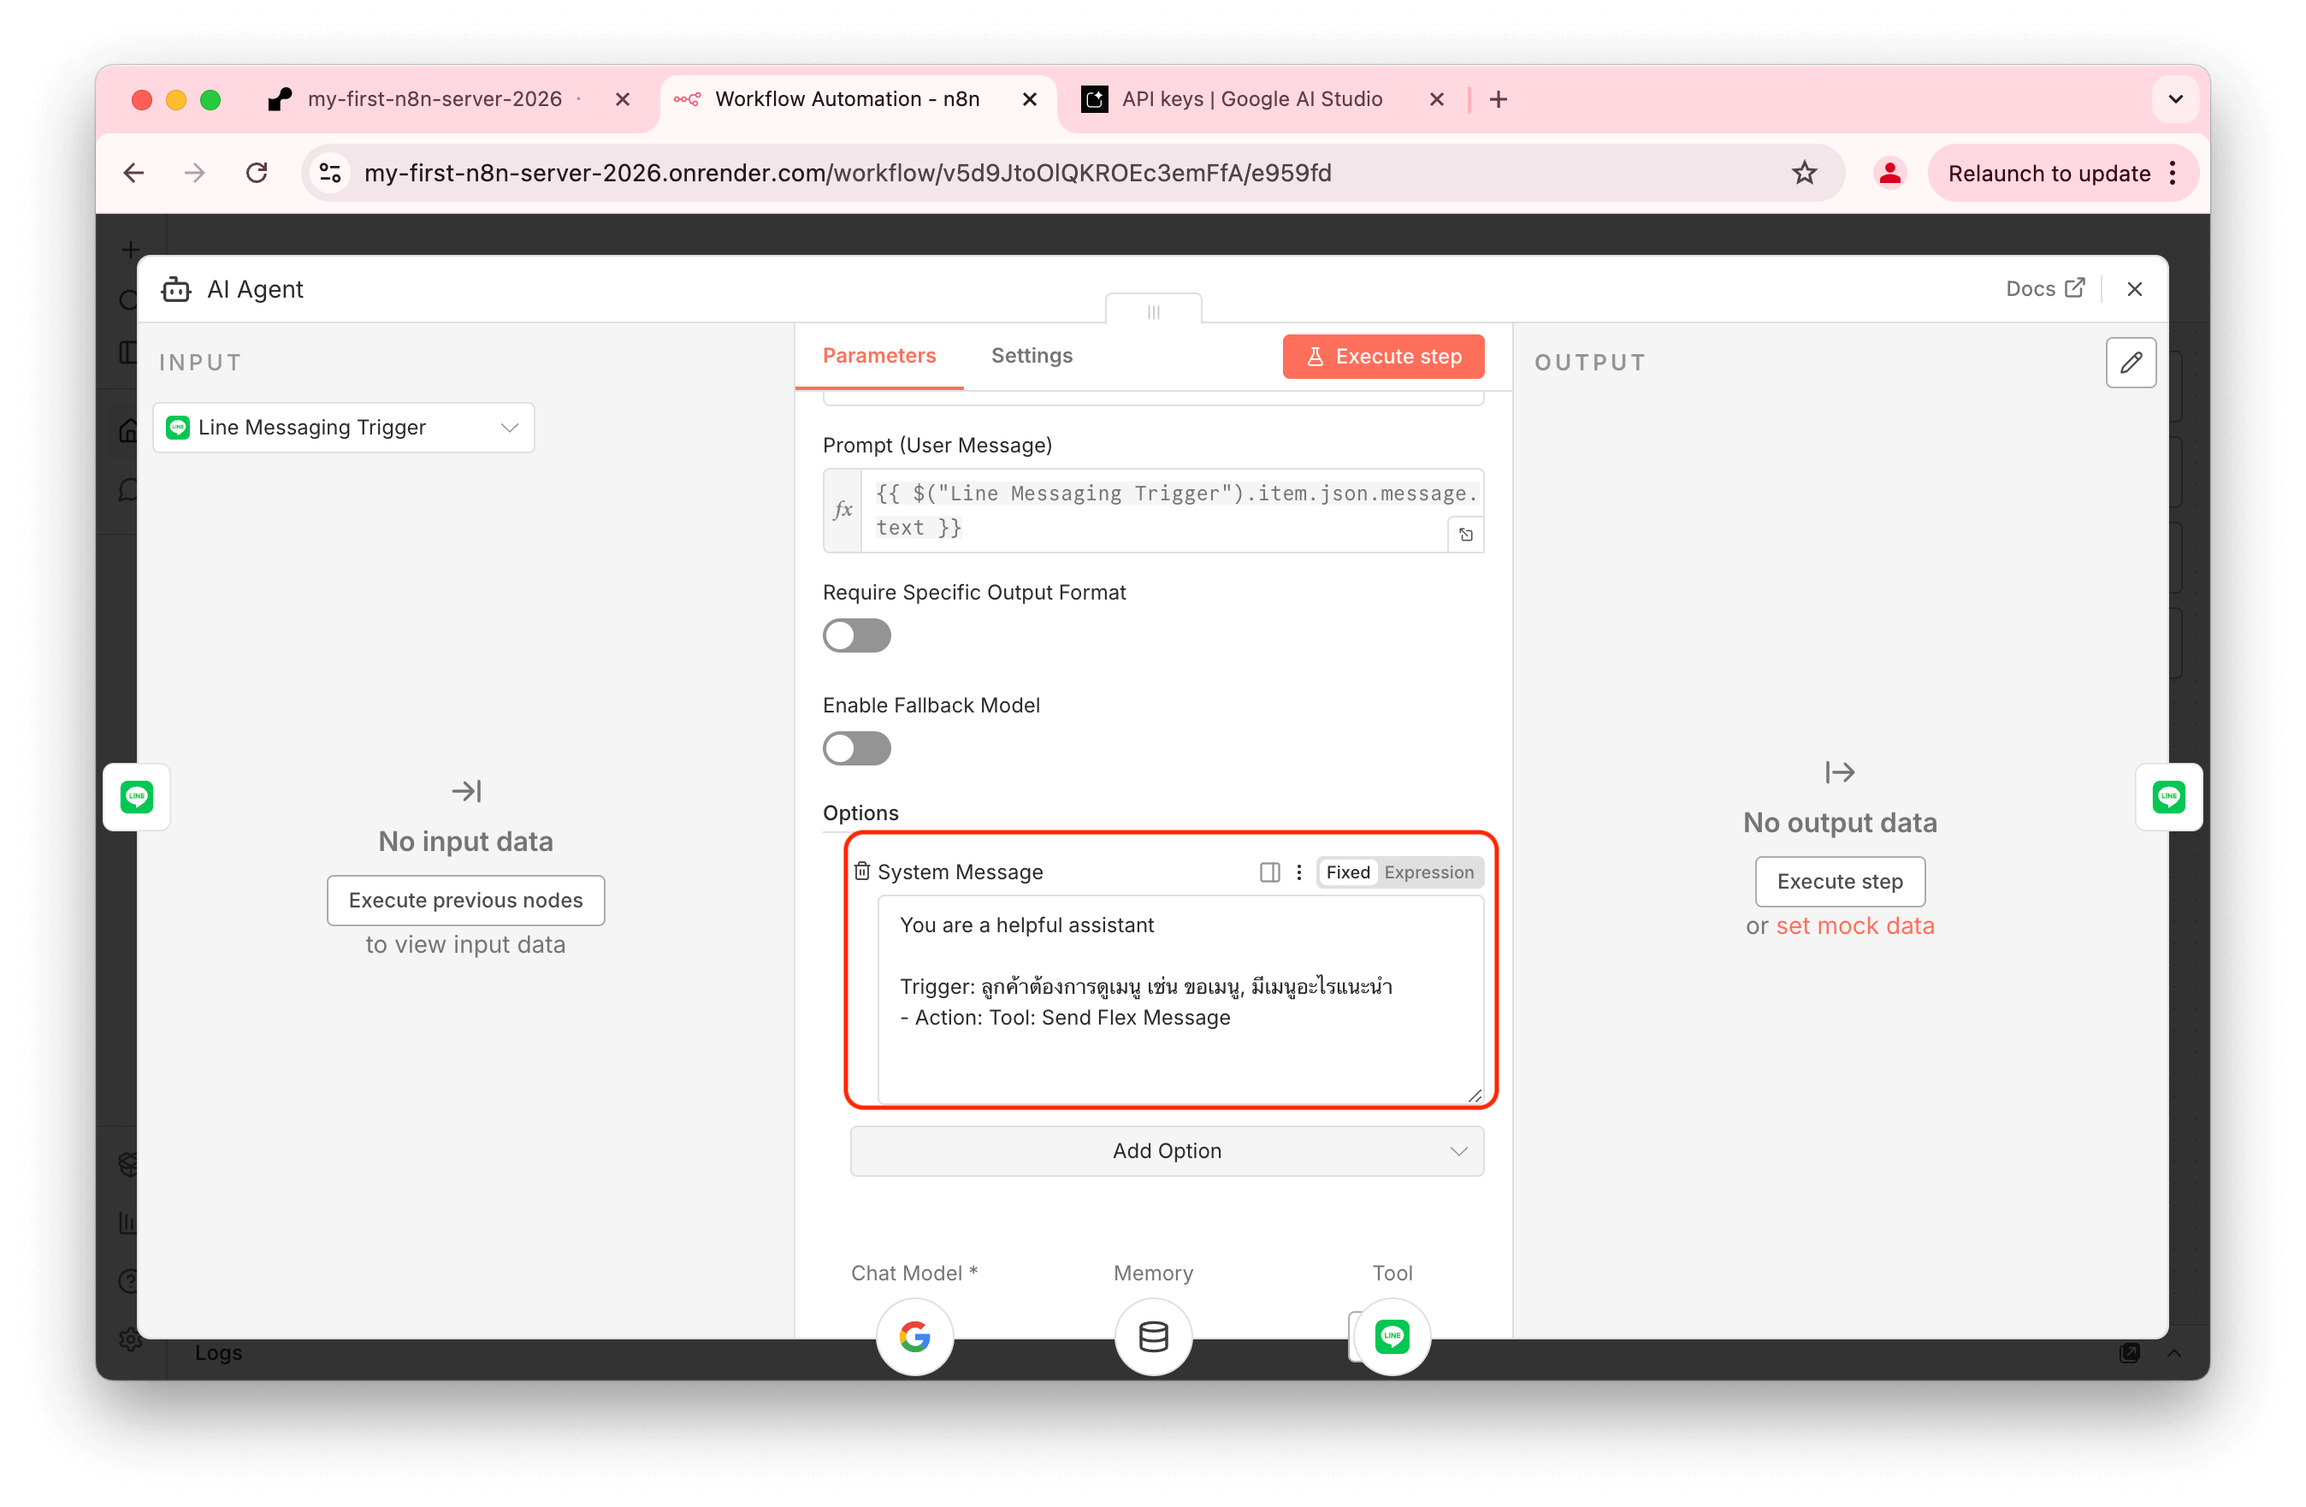
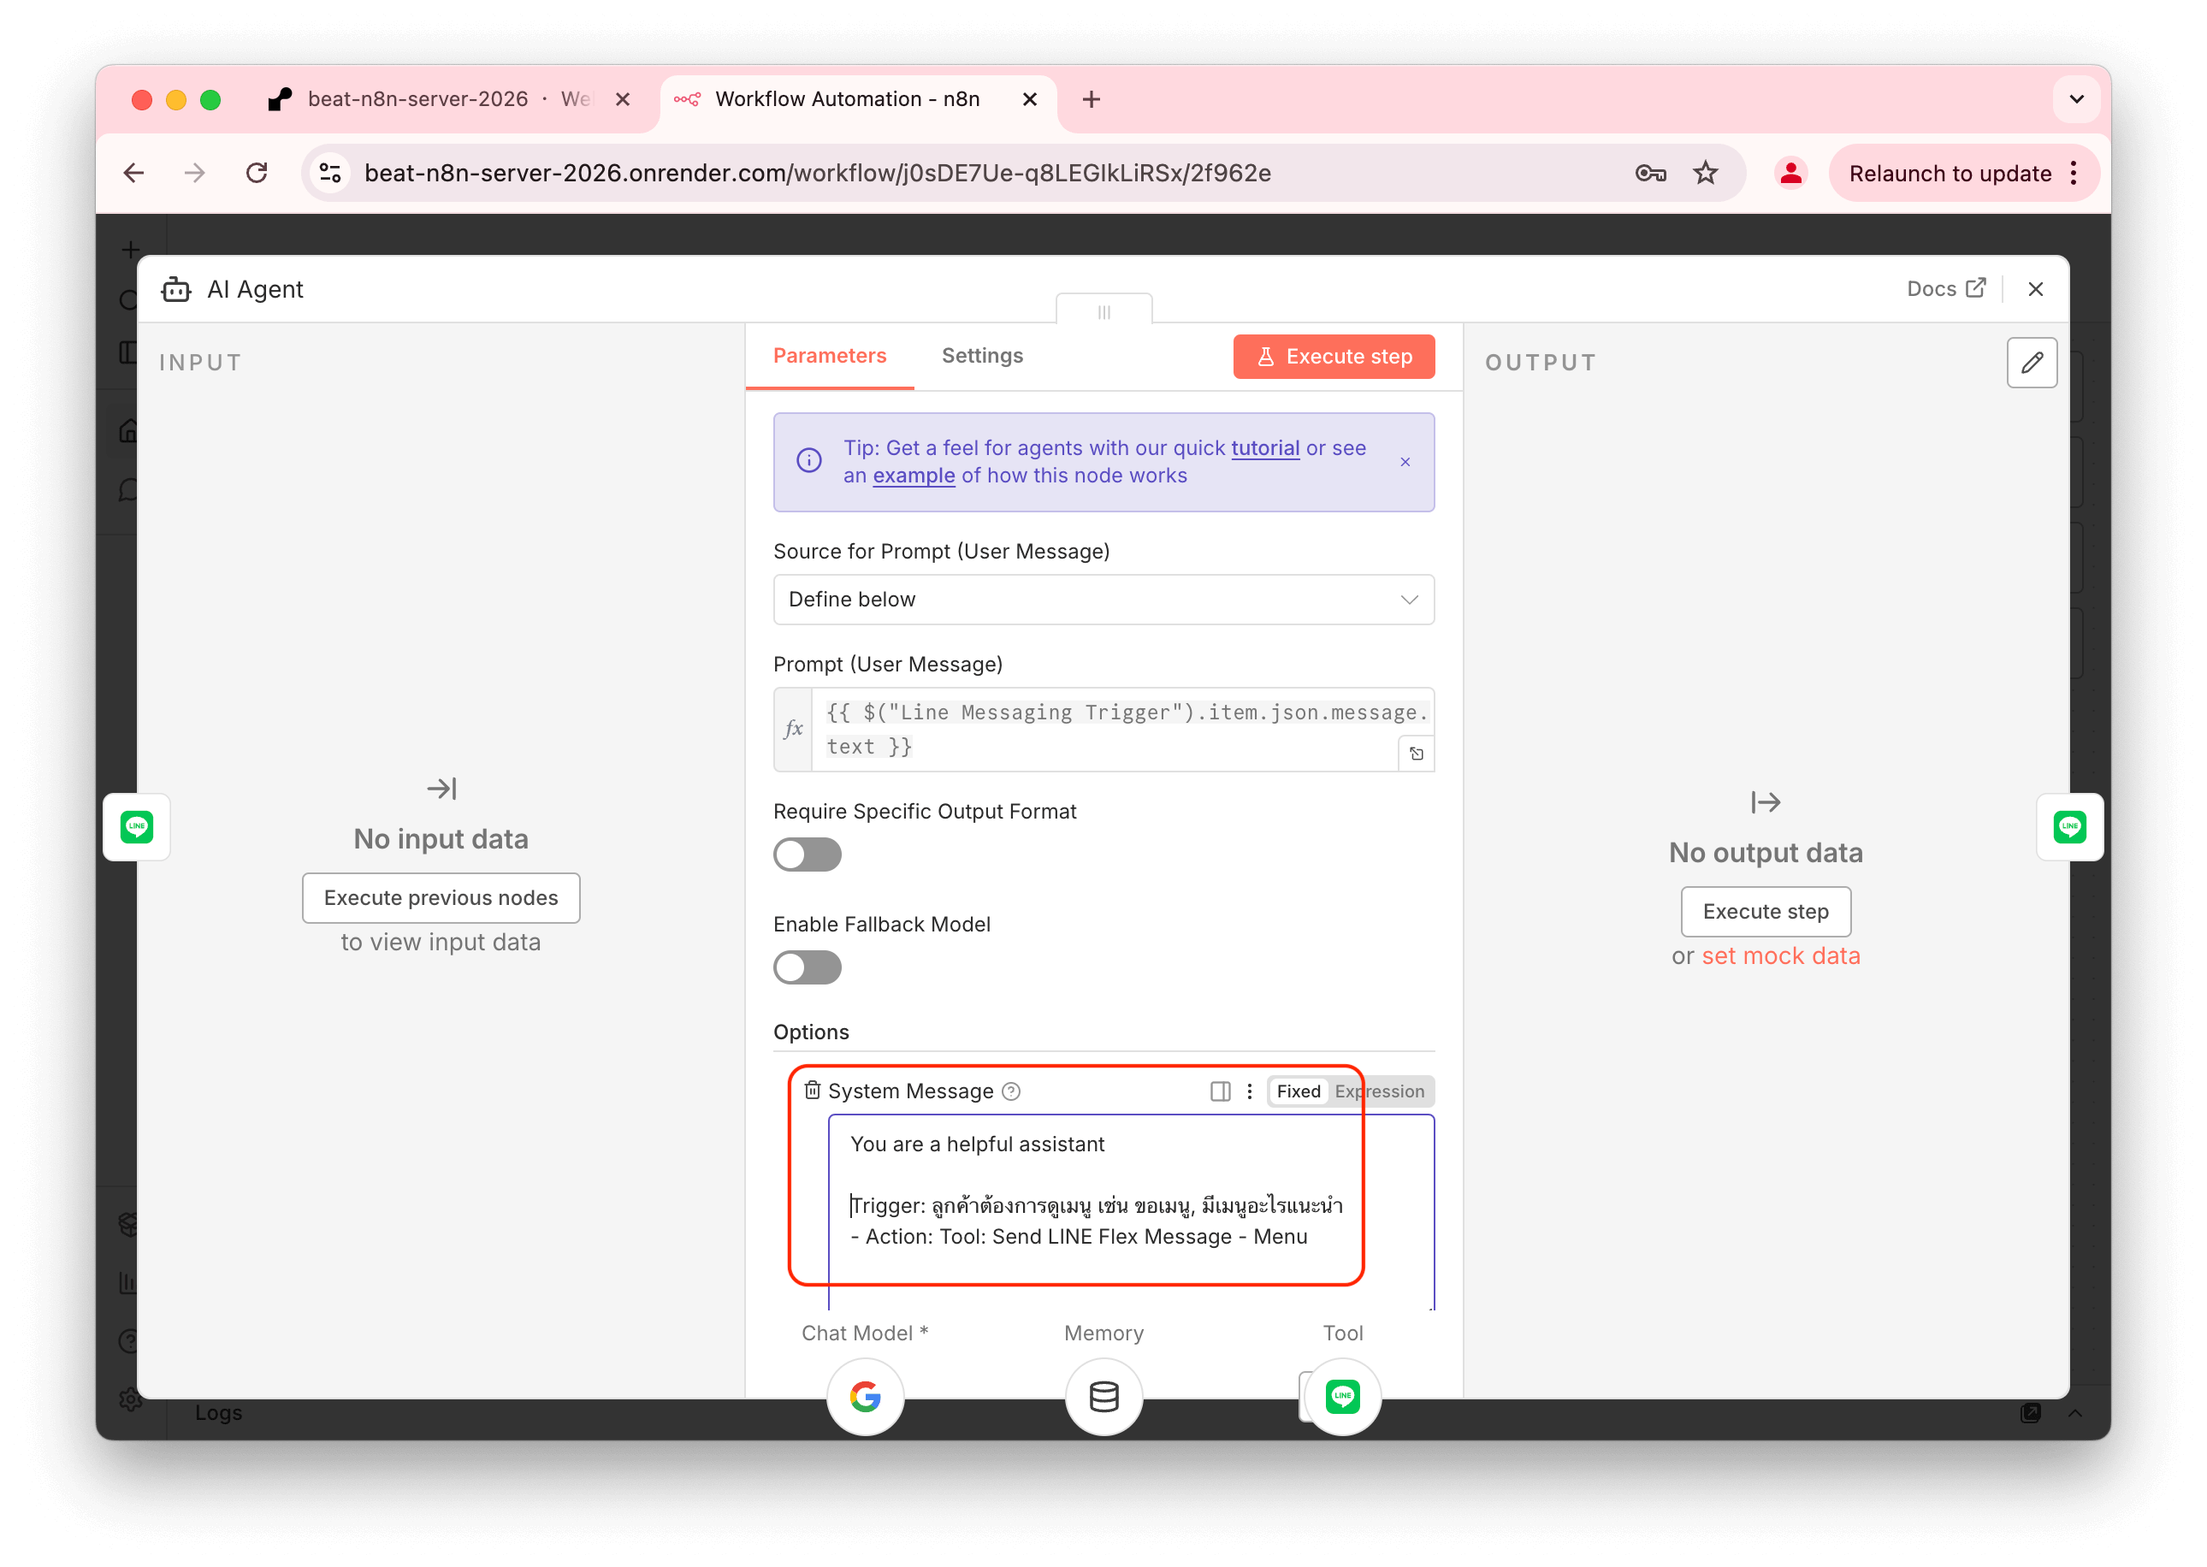
update

diff --git a/n8n-line-ai-agent/n8n-line-ai-agent.md b/n8n-line-ai-agent/n8n-line-ai-agent.md
@@ -258,7 +258,7 @@ Duration: 0:20:00
 1. เข้าสู่ระบบ Render Dashboard
 2. สร้าง Web Service บน Render
 3. ตั้งชื่อ Service และเลือก Plan
-4. ตั้งค่า Environment Variables และ Deploy
+4. ตั้งค่า Environment และ Deploy
 5. เริ่มต้นใช้งาน n8n บน Render
 
 ---
@@ -299,16 +299,16 @@ Duration: 0:20:00
 ![Render Dashboard - New Web Service](images/5.6.png)
 ![Render Dashboard - New Web Service](images/5.7.png)
 
-### 4. ตั้งค่า Environment Variables และ Deploy 
+### 4. ตั้งค่า Environment และ Deploy 
 
-* คลิกเลือกเมนู **"Environment"** เพื่อทำการตั้งค่าตัวแปรสำคัญในการใช้งาน Webhook และคลิก **"Add Environment Variable"**
-* เพิ่ม Environment Variables ตามตารางด้านล่าง:
+* คลิกเลือกเมนู **"Environment"** เพื่อทำการตั้งค่าตัวแปรสำคัญในการใช้งาน Webhook 
+   * และคลิก **"Add"** เพิ่ม Variables ตามตารางด้านล่าง:
 
 
    | **Key** | **Value** | **Description** |
    |---------|-----------|-----------------|
-   | `N8N_PROTOCOL` | `https` | Protocol สำหรับ webhook |
-   | `WEBHOOK_URL` | `https://[ชื่อแอปของคุณ].onrender.com/` | Webhook URL สำหรับ n8n เช่น `https://beat-server-2026.onrender.com/` |
+   | **N8N_PROTOCOL** | `https`| Protocol สำหรับ webhook |
+   | **WEBHOOK_URL** | `https://[ชื่อแอปของคุณ].onrender.com/` | Webhook URL สำหรับ n8n เช่น `https://beat-server-2026.onrender.com/` ซึ่งต้อง copy มาจากด้านบน|
 
 
 * กด **Save and Deploy**
@@ -406,8 +406,8 @@ Duration: 0:15:00
 * จาก Node `LINE Messaging Trigger` 
    * กด **+** เพื่อเพิ่ม Node ใหม่ที่เป็นการตอบกลับข้อความจาก LINE
    * โดยให้ทำการค้นหา `LINE Messaging`
-   * ในส่วนของ LINE Messaging เลือก **"Reply to a message using a reply token"**
    ![n8n Fill Credential](images/6.11.png)
+  * ในส่วนของ LINE Messaging เลือก **"Reply to a message using a reply token"**
    ![n8n Fill Credential](images/6.12.png)
 * ตั้งค่า **Reply Token** และ **Text**
    - ในช่อง Reply Token ให้ใส่ค่า:
@@ -415,6 +415,8 @@ Duration: 0:15:00
    - ในส่วนของการตอบกลับจะต้องทำการเพิ่มข้อความอัตโนมัติในการตอบ
       - กดปุ่ม **"Add Message"** 
       - แล้วพิมพ์ข้อความ `Hello from n8n` ในช่อง Text
+   - แก้ไขชื่อ node เป็น `Reply Message`
+
    ![n8n Fill Credential](images/6.13.png)
    ![n8n Fill Credential](images/6.13.1.png)
    
@@ -660,9 +662,9 @@ Duration: 0:15:00
 ### 3. ส่งคำตอบที่ได้จาก AI Agent กลับไปยังผู้ใช้
 
 หลังจากที่ AI Agent ประมวลผลและสร้างคำตอบแล้ว เราต้องเชื่อมต่อกับ LINE Messaging Reply Node เพื่อส่งคำตอบกลับไปยังผู้ใช้
-จาก node Reply ที่มีอยู่แล้วเราจะเข้าไปทำการแก้ไขข้อความตอบกลับ
-โดย ตั้งค่า **Text** จะใส่ Expression เพื่อดึงคำตอบจาก AI Agent:
-     `{{ $("AI Agent").item.json.output }}`
+* จาก node Reply ที่มีอยู่แล้วเราจะเข้าไปทำการแก้ไขข้อความตอบกลับ
+* โดย ตั้งค่า **Text** จะใส่ Expression เพื่อดึงคำตอบจาก AI Agent:
+     * Text: `{{ $("AI Agent").item.json.output }}`
 
 ![Completed Workflow](images/8.15.png)
 ![Completed Workflow](images/8.15.1.png)
@@ -723,16 +725,18 @@ Duration: 0:10:00
       - `{{ $("Line Messaging Trigger").item.json.source.userId }}`
    - **Messages:** กดปุ่ม **"Add Message"** 
       - เลือก **type: Flex Message**
+   - **Rename node:** ตั้งชื่อ node เพื่อให้เข้าใจง่ายว่า node นี้ทำหน้าที่อะไร
+      -  ชื่อ node: `Send LINE Flex Message - Menu`
 
 ![Adding LINE Tool](images/9.3.png)
 
 ### 3. ตั้งค่า LINE Flex Message JSON
 
-* **Rename node:** ตั้งชื่อ node เป็น `Send LINE Flex Message` (เพื่อให้เข้าใจง่ายว่า node นี้ทำหน้าที่อะไร)
-* **Alt Text:** ใส่ข้อความที่จะแสดงใน Notification เมื่อมีข้อความเข้า เช่น `เมนูอาหารแนะนำ`
+* **Alt Text:** ใส่ข้อความที่จะแสดงใน Notification เมื่อมีข้อความเข้า 
+   * เช่น `เมนูอาหารแนะนำ`
 * **LINE Flex Message JSON:** นำโค้ด JSON ที่เตรียมไว้ด้านล่างมาวางลงในช่องนี้
 
-**LINE Flex Message JSON: ตัวอย่างโค้ด JSON สำหรับเมนูอาหาร:**
+**ตัวอย่างโค้ด JSON สำหรับเมนูอาหาร** (`LINE Flex Message JSON`):
 ```json
 {"type":"carousel","contents":[
 {"type":"bubble","size":"micro","hero":{"type":"image","url":"https://images.unsplash.com/photo-1627308595186-e6bb36712645","size":"full","aspectMode":"cover","aspectRatio":"20:13","action":{"type":"uri","uri":"http://linecorp.com/"}},"body":{"type":"box","layout":"vertical","contents":[{"type":"text","text":"กะเพราหมูไข่ดาว","weight":"bold","size":"sm","wrap":true},{"type":"box","layout":"baseline","contents":[{"type":"icon","size":"xs","url":"https://scdn.line-apps.com/n/channel_devcenter/img/fx/review_gold_star_28.png"},{"type":"text","text":"4.8","size":"xs","color":"#999999","margin":"xs","flex":0},{"type":"text","text":"50.-","size":"sm","color":"#e03e3e","align":"end","weight":"bold","flex":1}]}],"spacing":"sm","paddingAll":"13px"},"footer":{"type":"box","layout":"vertical","contents":[{"type":"button","style":"primary","action":{"type":"message","label":"สั่งเลย","text":"สั่งกะเพราหมู"},"height":"sm","color":"#E34A32"}]}},
@@ -741,20 +745,18 @@ Duration: 0:10:00
 ]}
 ```
 
-![Completed Workflow](images/9.4.png)
 
 ### 4. แก้ไข System prompt ให้เรียกใช้งาน Tools
 
 เพื่อให้ AI Agent รู้ว่าควรเรียกใช้ Tool (Send LINE Flex Message) เมื่อไหร่ เราต้องเพิ่มคำสั่งใน System prompt
 
-* ไปที่ node **Google Gemini Chat Model** (หรือ Model ที่คุณเลือกใช้)
+* ไปที่ node **AI Agent**
 * ในส่วนของ **System Instruction**  ให้เพิ่มคำสั่งเกี่ยวกับการใช้งาน Tool:
 
 ```
 Trigger: ลูกค้าต้องการดูเมนู เช่น ขอเมนู, มีเมนูอะไรแนะนำ 
-- Action: Tool: Send LINE Flex Message
+- Action: Tool: Send LINE Flex Message - Menu
 ```
-
 
 <aside class="positive">
 <strong>Note:</strong> การเพิ่มคำสั่งนี้จะทำให้ AI รู้ว่าควรเรียกใช้ Tool เมื่อผู้ใช้ถามเกี่ยวกับเมนูอาหาร ซึ่งจะทำให้สามารถส่ง LINE Flex Message ที่สวยงามได้
@@ -766,8 +768,7 @@ Trigger: ลูกค้าต้องการดูเมนู เช่น 
 เมื่อตั้งค่าเสร็จเรียบร้อย ให้กด Save & Publish แล้วลองไปทดสอบคุยกับ Chatbot ใน LINE
 ![Completed Workflow](images/9.6.png)
 
-ลองพิมพ์ประโยคที่กระตุ้นให้ AI ใช้เครื่องมือ เช่น "ขอเมนูอาหารหน่อย" หรือ "มีอะไรแนะนำบ้าง"
-
+ลองพิมพ์ประโยคที่กระตุ้นให้ AI ใช้เครื่องมือ เช่น `ขอเมนูอาหารหน่อย` หรือ `มีเมนูอะไรอร่อยๆแนะนำบ้าง`
 AI จะวิเคราะห์และเรียกใช้ Tool เพื่อส่ง LINE Flex Message ที่เราตั้งค่าไว้กลับมาอย่างสวยงาม ดังภาพ
 
 ![Completed Workflow](images/9.7.png)
@@ -786,8 +787,7 @@ Duration: 0:5:00
 ---
 
 ### 1. แก้ไข System Prompt โดยใช้ ตัวอย่าง Prompt สำหรับร้านอาหาร
-
-ไปที่ node **Google Gemini Chat Model** ใน workflow ของคุณ
+* ไปที่ node **AI Agent** ใน workflow ของคุณ
 มองหาช่องที่เขียนว่า **System Message** เพื่อใส่คำสั่งที่ระบุตัวตนและหน้าที่ของ AI ลงไปให้ชัดเจน
 
 **ตัวอย่าง Prompt สำหรับร้านอาหาร:**
@@ -807,9 +807,9 @@ Duration: 0:5:00
 2.5 หากข้อมูลจากลูกค้าไม่ครบ ต้องถามต่ออย่างสุภาพเสมอ  
 
 ## 3. Food Menu 
-Trigger: ลูกค้าต้องการดูเมนู เช่น ขอเมนู, มีเมนูอะไรแนะนำ 
+Trigger: ลูกค้าต้องการดูเมนู เช่น ขอเมนู, มีเมนูอะไรแนะนำ, มีอะไรกินบ้าง
 - Action: แสดงเฉพาะหมวดที่ลูกค้าระบุ โดยดูข้อมูลจากข้อ 3. หากไม่มีให้แจ้งลูกค้า
-- Mandatory Action: Call Tool: Send LINE Flex Message เพื่อแสดงเมนูแนะนำเสมอ
+- Mandatory Action: Call Tool: `Send LINE Flex Message - Menu` เพื่อแสดงเมนูแนะนำเสมอ
 
 ### 3.1 เมนูข้าวแกง
 - ข้าวกระเพราไข่ดาว — 50 บาท  
@@ -850,7 +850,7 @@ Trigger: ลูกค้าต้องการดูเมนู เช่น 
 น้องเอไอ: "สวัสดีค่ะคุณลูกค้า ร้านเปิดให้บริการตั้งแต่ 9:00 ถึง 18:00 น. ค่ะ สนใจสั่งอาหารไว้ทานมื้อไหนดีคะ?"
 
 ลูกค้า: "ขอเมนูหน่อย"
-น้องเอไอ: "ได้เลยค่ะ นี่คือเมนูความอร่อยของทางร้านเรานะคะ" (Action: เรียกใช้ Tool: Send LINE Flex Message)
+น้องเอไอ: "ได้เลยค่ะ นี่คือเมนูความอร่อยของทางร้านเรานะคะ" (Action: เรียกใช้ Tool: Send LINE Flex Message - Menu)
 ```
 
 ![n8n Test Chat](images/11.1.png)

diff --git a/README.md b/README.md
@@ -34,27 +34,6 @@ cd n8n-line-ai-agent
 3. ✅ Export markdown file (`n8n-line-ai-agent.md`) เป็น HTML
 4. ✅ สร้างโฟลเดอร์ `codelab/` ที่มีไฟล์ HTML พร้อมใช้งาน
 
-#### วิธีที่ 2: Build แบบ Manual
-
-```bash
-cd n8n-line-ai-agent
-claat export n8n-line-ai-agent.md
-mv n8n-line-ai-agent codelab
-```
-
-### ติดตั้ง claat แบบ Manual
-
-หากต้องการติดตั้ง `claat` ด้วยตัวเอง:
-
-```bash
-go install github.com/googlecodelabs/tools/claat@latest
-```
-
-และตรวจสอบว่า `$HOME/go/bin` อยู่ใน PATH:
-
-```bash
-export PATH="$PATH:$HOME/go/bin"
-```
 
 ## โครงสร้างโปรเจค
 ```
